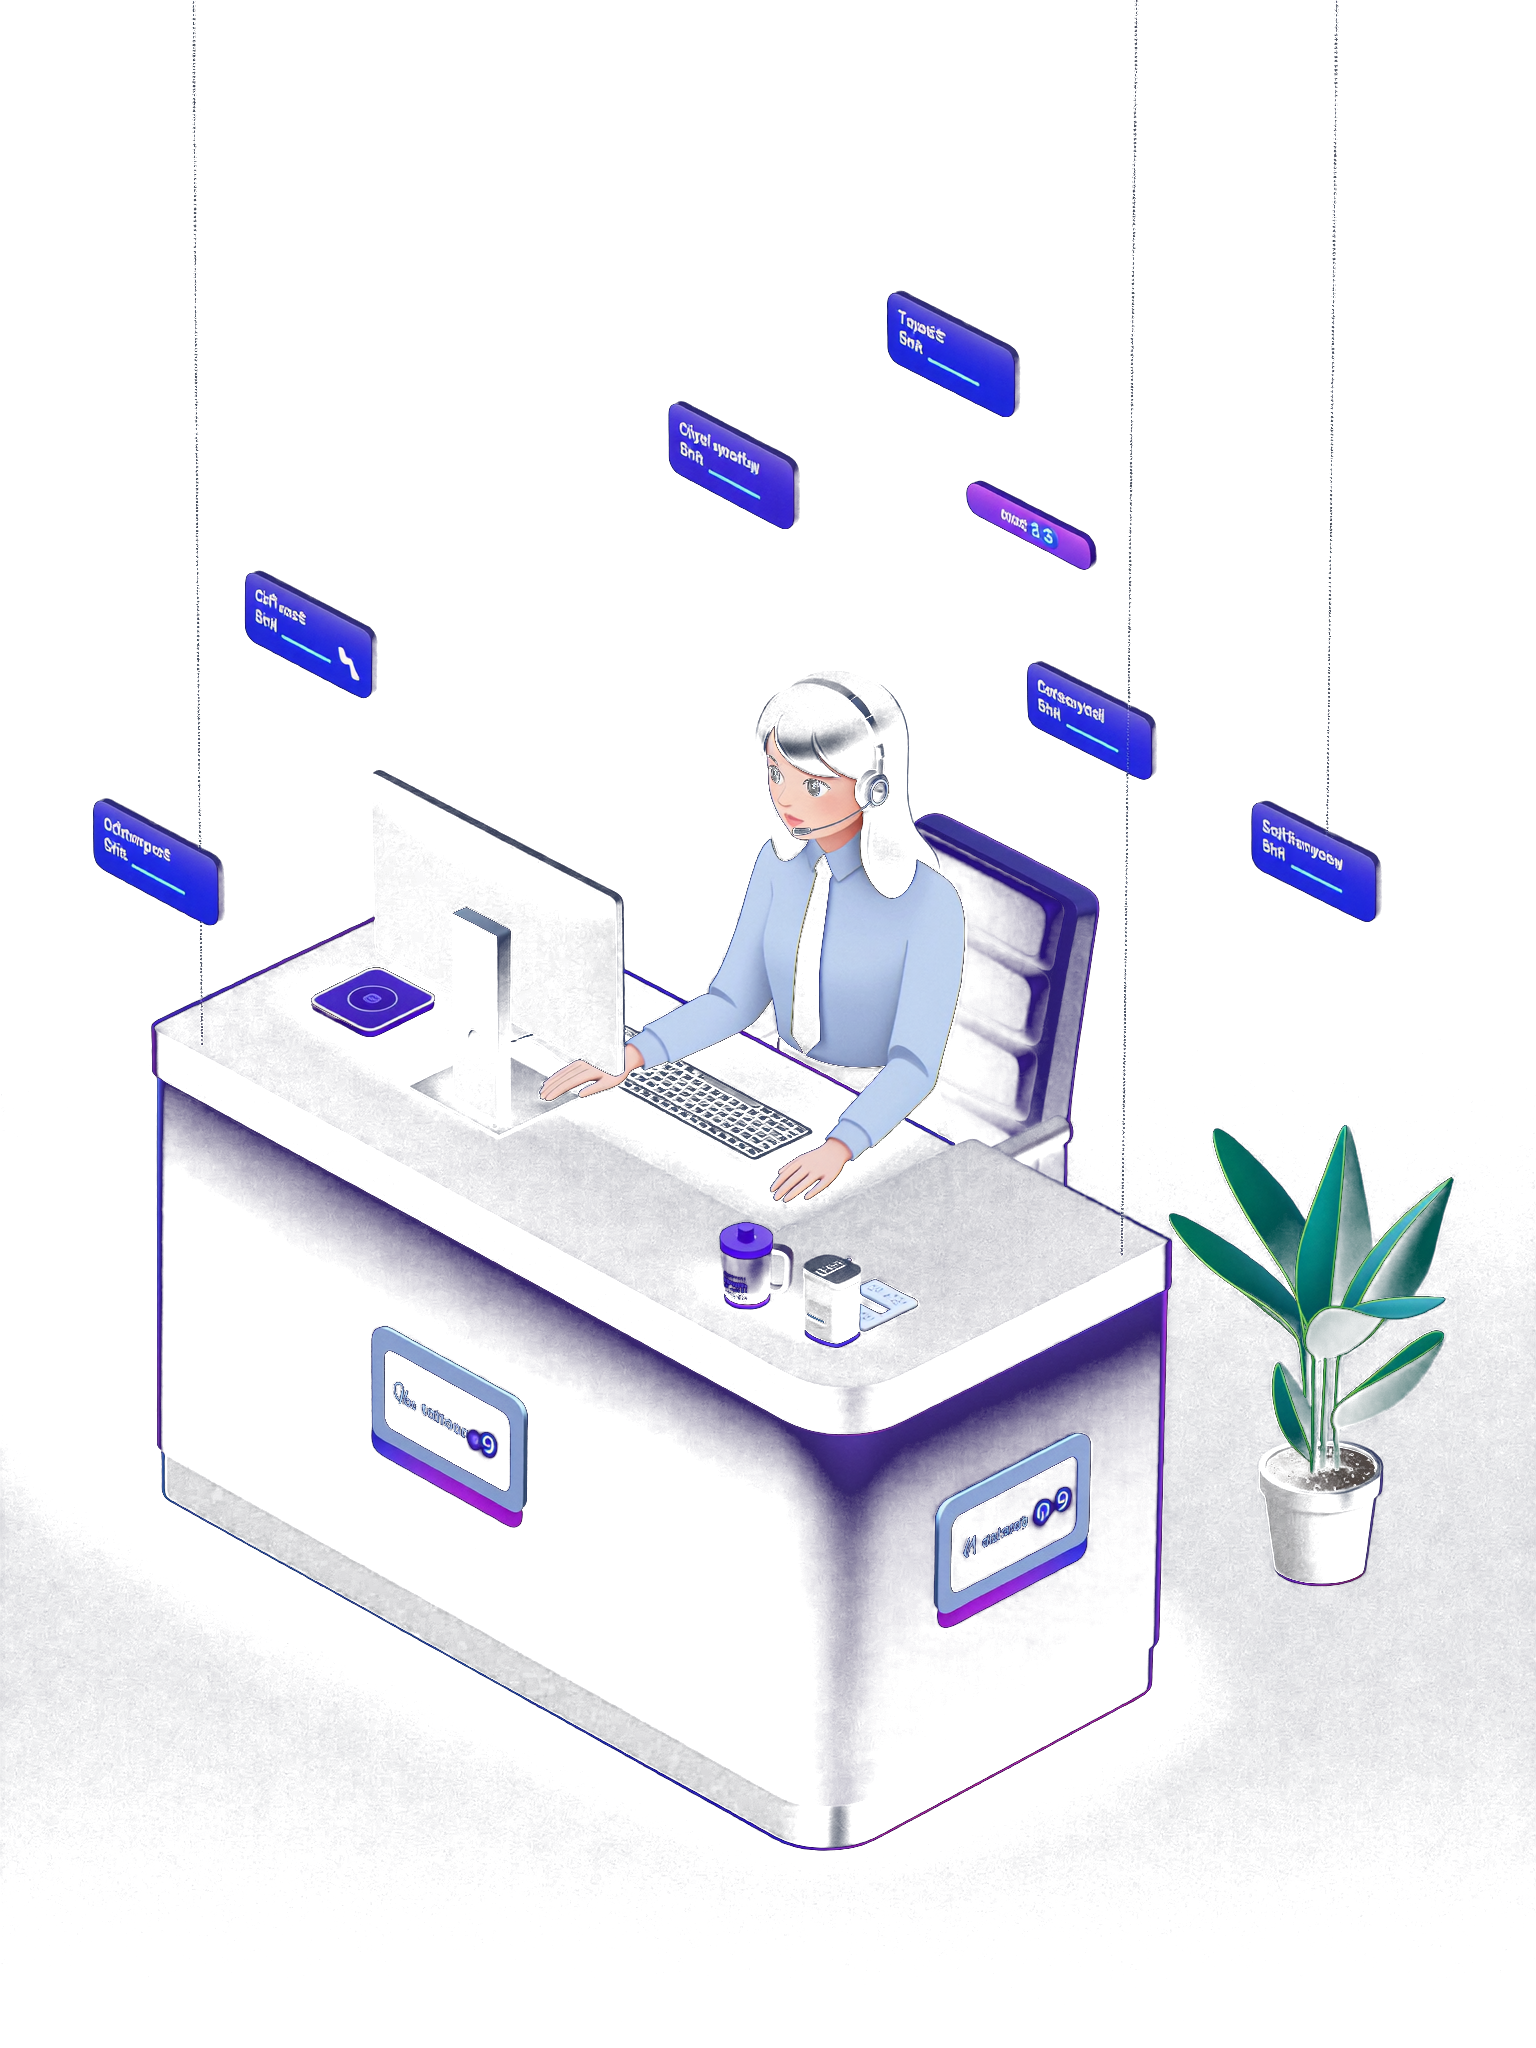
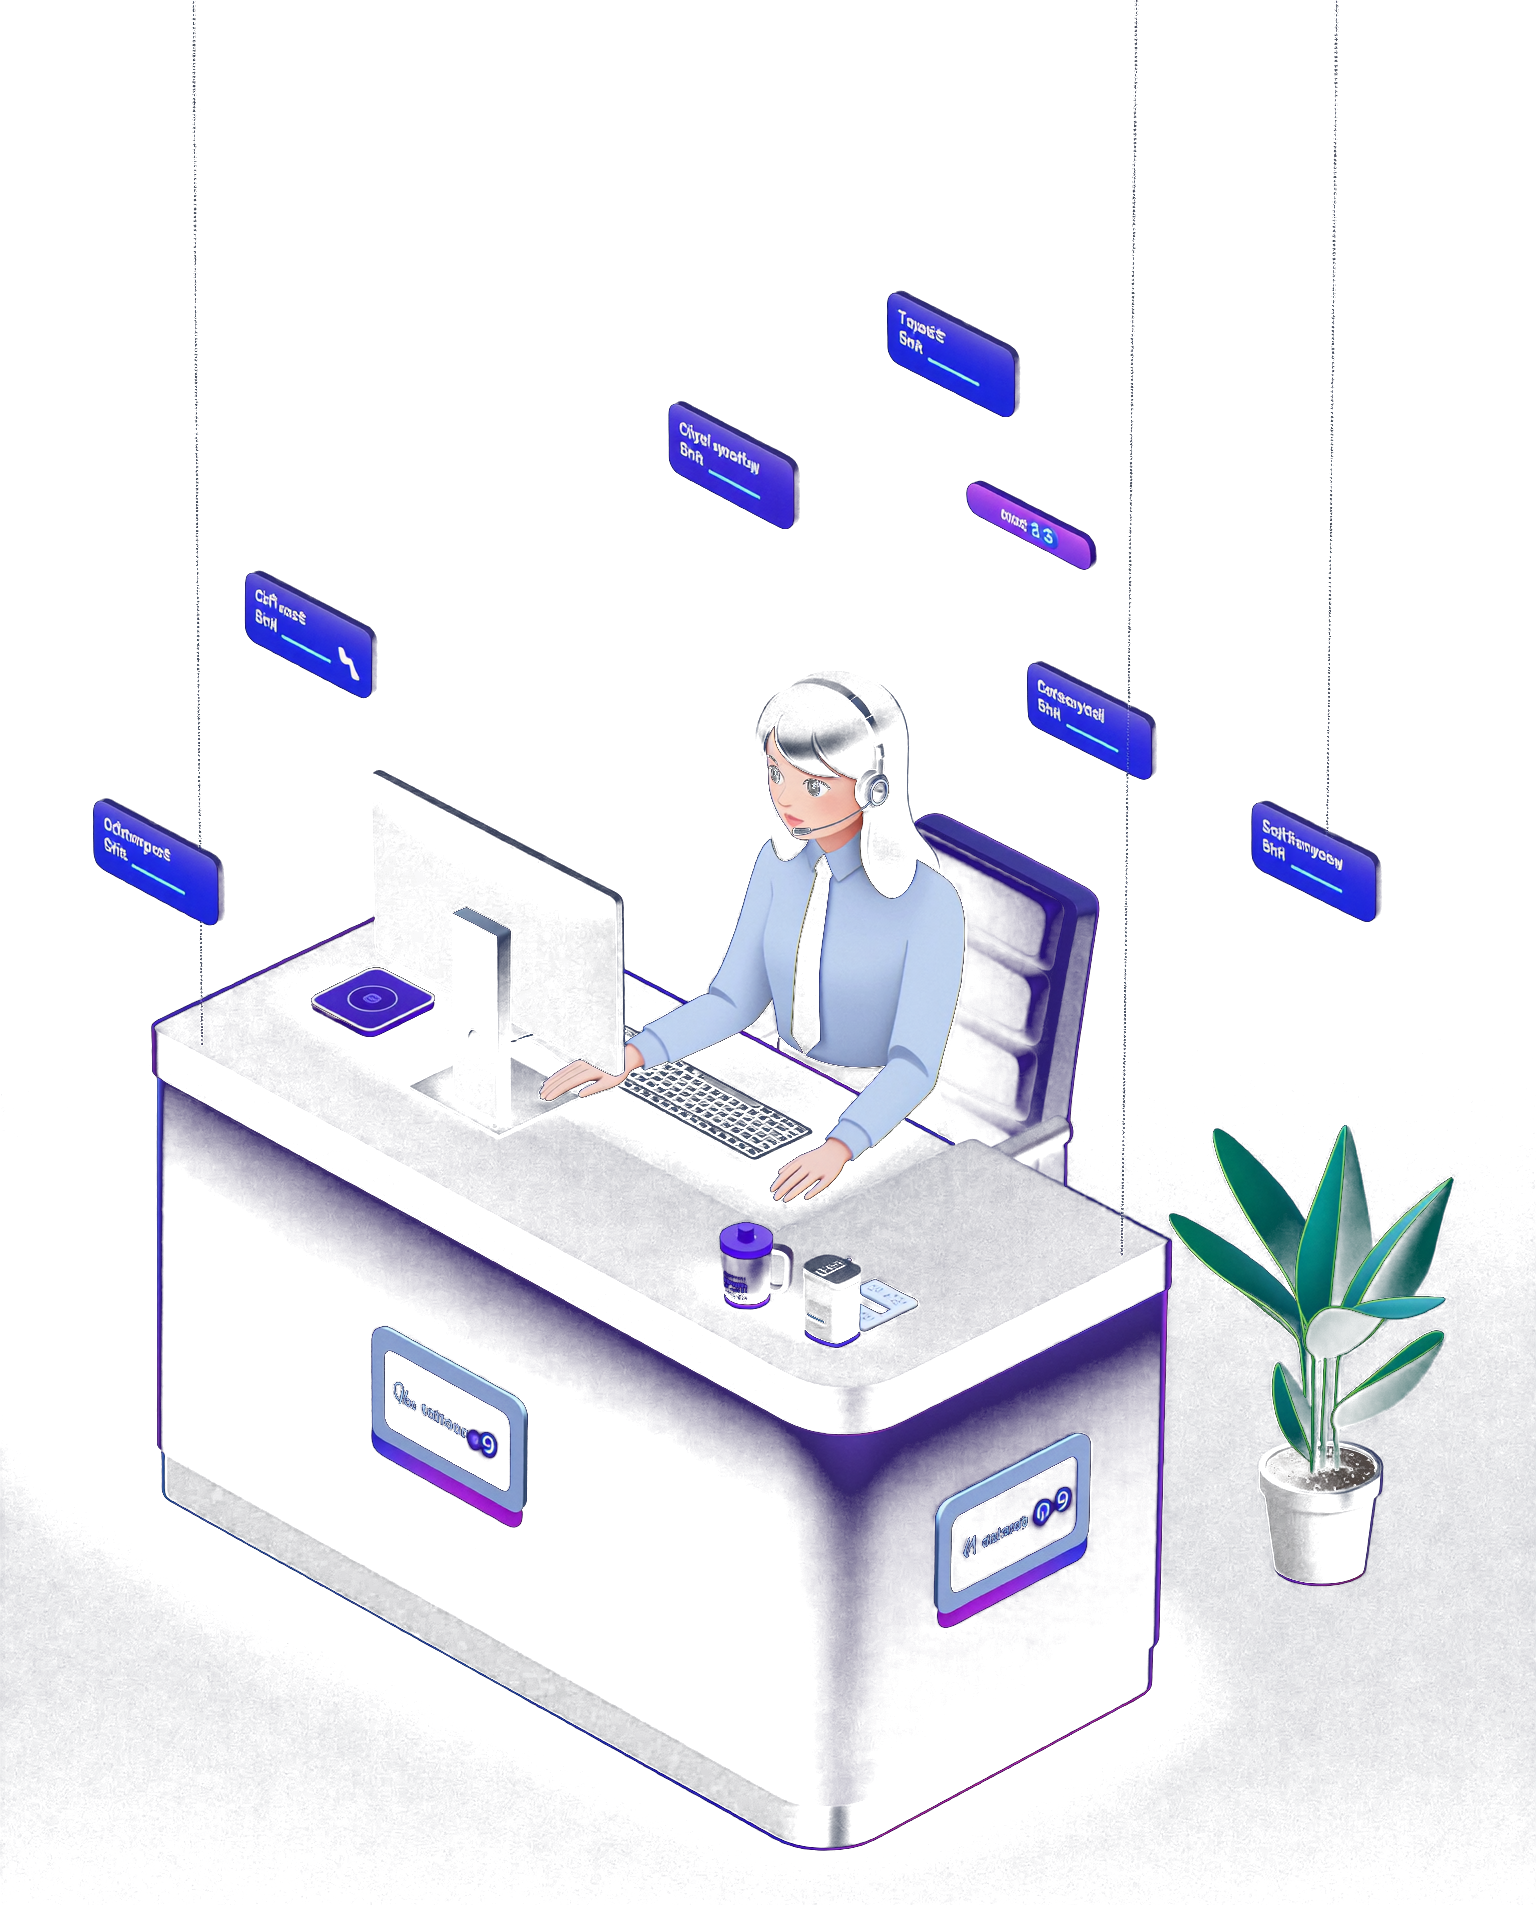
fix: Center hero illustration + properly distribute orbit pills
Root cause: the source PNG had ~200px of transparent padding at the bottom, so the visual subject was offset ~5% above the geometric image center. With aspect-square container + object-contain, the receptionist appeared shifted up and the orbiting pills rotated around an empty space rather than around the receptionist.

Fixes:
- Re-trim public/images/hero-receptionist.png (1536x2048 → 1536x1905) to drop the dead bottom padding so the subject is genuinely at the image center
- Change Hero container from aspect-square to aspect-[4/5] so the image fills it completely (no internal padding throwing off the orbit)
- Bump container max-w from 560 to 480 so there's more slack inside the right column for pills near the edges
- Set orbit radius to exactly 50% and start at -90° (top of clock) so pills are evenly distributed around the visual subject
- Drop the redundant inner flex wrapper around the img

diff --git a/components/Hero.tsx b/components/Hero.tsx
@@ -70,19 +70,17 @@ export const Hero: React.FC = () => {
           </div>
 
           {/* Right: receptionist illustration + orbiting industry pills */}
-          <div className="relative w-full max-w-[560px] mx-auto aspect-square">
+          <div className="relative mx-auto w-full max-w-[480px] aspect-[4/5]">
             {/* Soft glow behind image */}
-            <div className="absolute inset-[10%] bg-gradient-to-br from-brand-blue/25 to-brand-violet/25 blur-3xl rounded-full -z-10"></div>
+            <div className="absolute inset-[12%] bg-gradient-to-br from-brand-blue/25 to-brand-violet/25 blur-3xl rounded-full -z-10"></div>
 
-            {/* Receptionist illustration with chroma-keyed transparent bg */}
-            <div className="absolute inset-0 flex items-center justify-center">
-              <img
-                src="/images/hero-receptionist.png"
-                alt="AI receptionist for home service businesses"
-                className="w-full h-full object-contain"
-                loading="eager"
-              />
-            </div>
+            {/* Receptionist illustration — fills container (aspect matches image) */}
+            <img
+              src="/images/hero-receptionist.png"
+              alt="AI receptionist for home service businesses"
+              className="absolute inset-0 w-full h-full object-contain"
+              loading="eager"
+            />
 
             {/* Orbiting industry pills */}
             <motion.div
@@ -91,9 +89,9 @@ export const Hero: React.FC = () => {
               transition={{ duration: ORBIT_DURATION, repeat: Infinity, ease: 'linear' }}
             >
               {industries.map((industry, i) => {
-                const angle = (360 / industries.length) * i;
+                const angle = (360 / industries.length) * i - 90; // start at top
                 const rad = (angle * Math.PI) / 180;
-                const radius = 52;
+                const radius = 50;
                 const x = 50 + Math.cos(rad) * radius;
                 const y = 50 + Math.sin(rad) * radius;
                 return (
